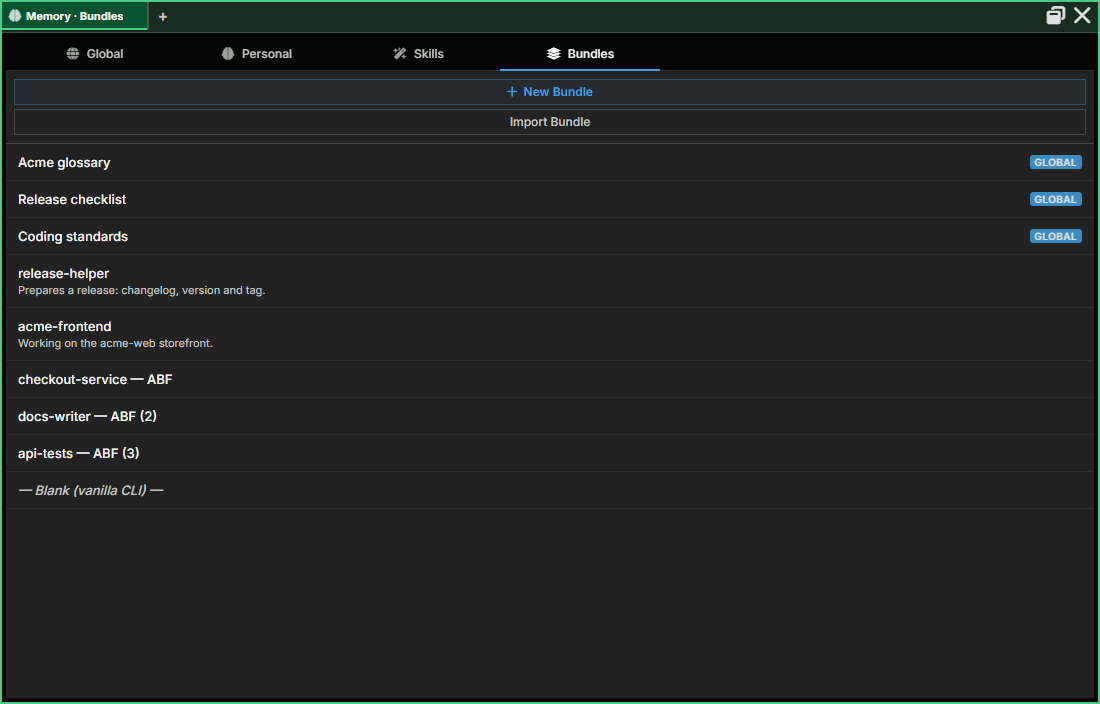
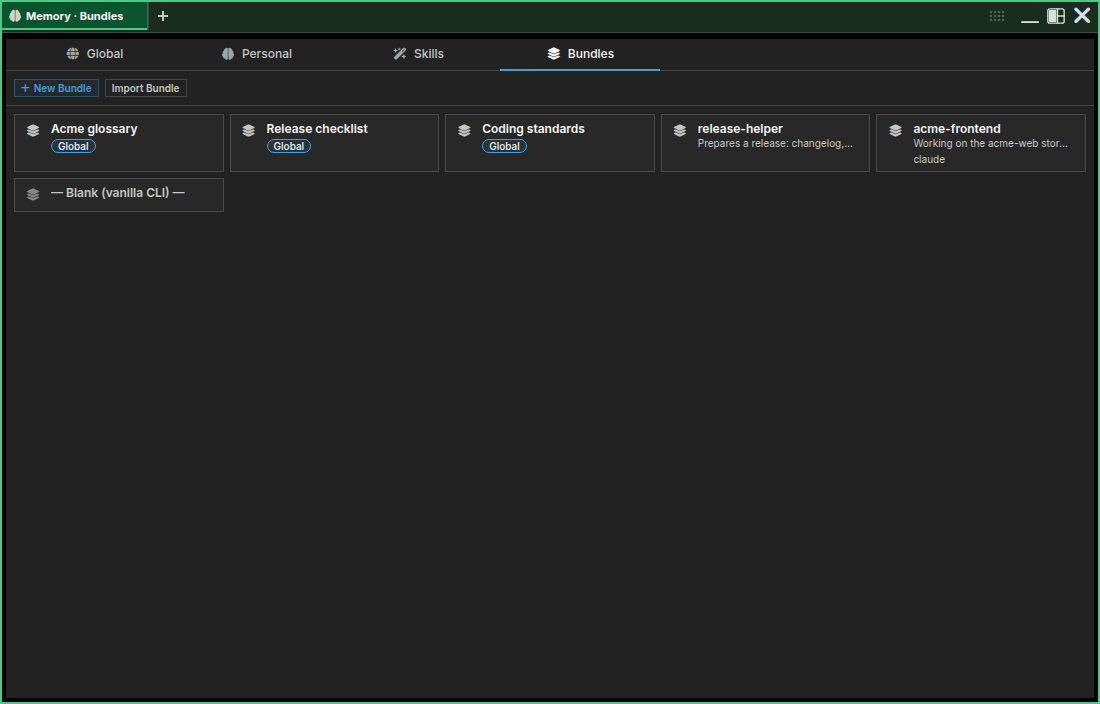
Agent1@narko: retake the Memory Bundles screenshot from the released app
Agent: agent1@narko

diff --git a/.changesets/1793953990-memory-bundles-screenshot-retaken-from-the-released-app-the--bdfz.md b/.changesets/1793953990-memory-bundles-screenshot-retaken-from-the-released-app-the--bdfz.md
@@ -1,0 +1,5 @@
+---
+type: patch
+---
+
+Memory → Bundles screenshot retaken from the released app: the per-agent ABF bundles are gone from it
